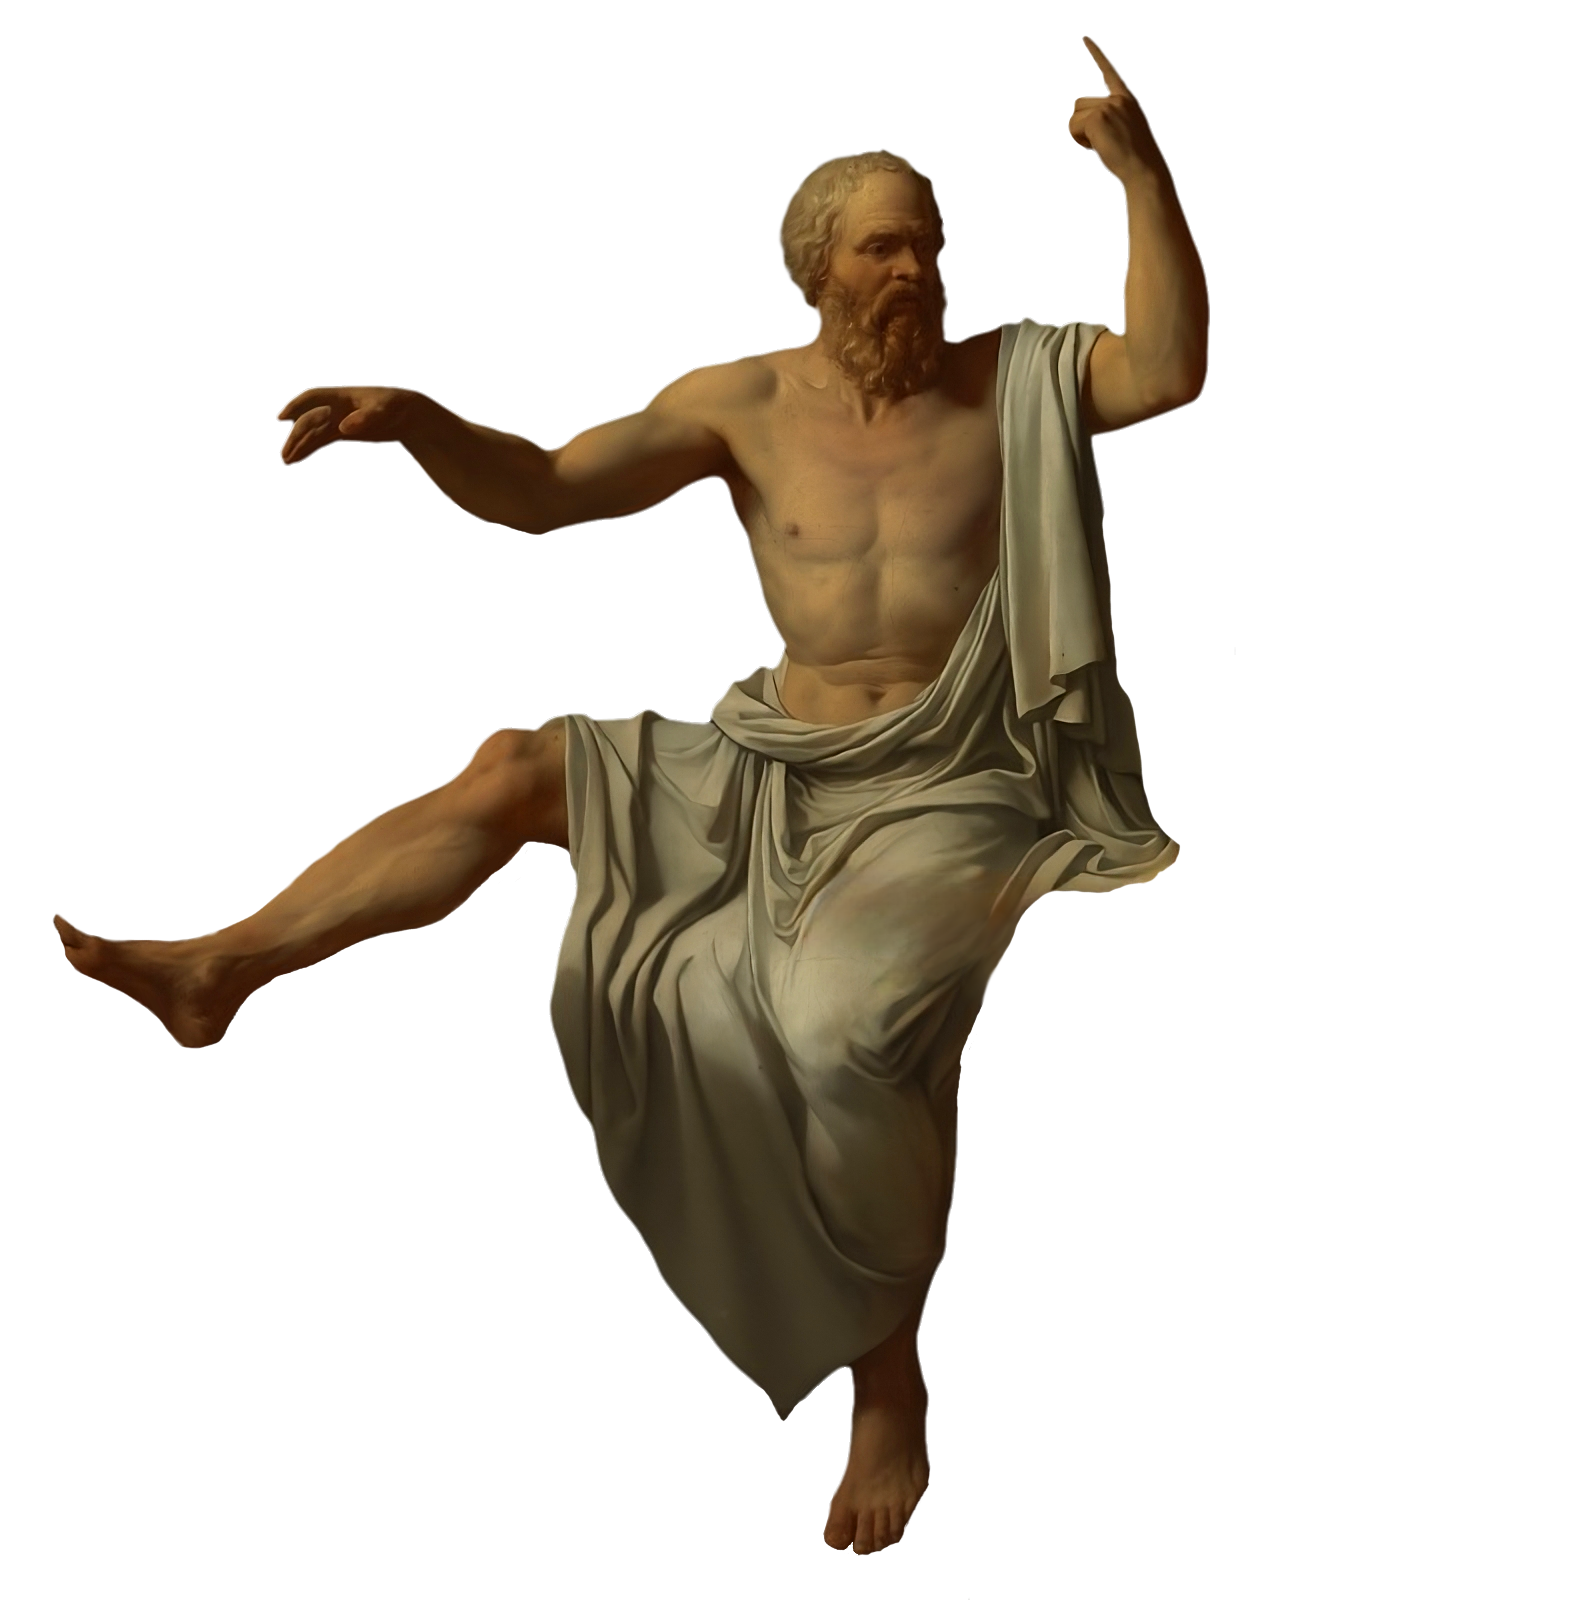
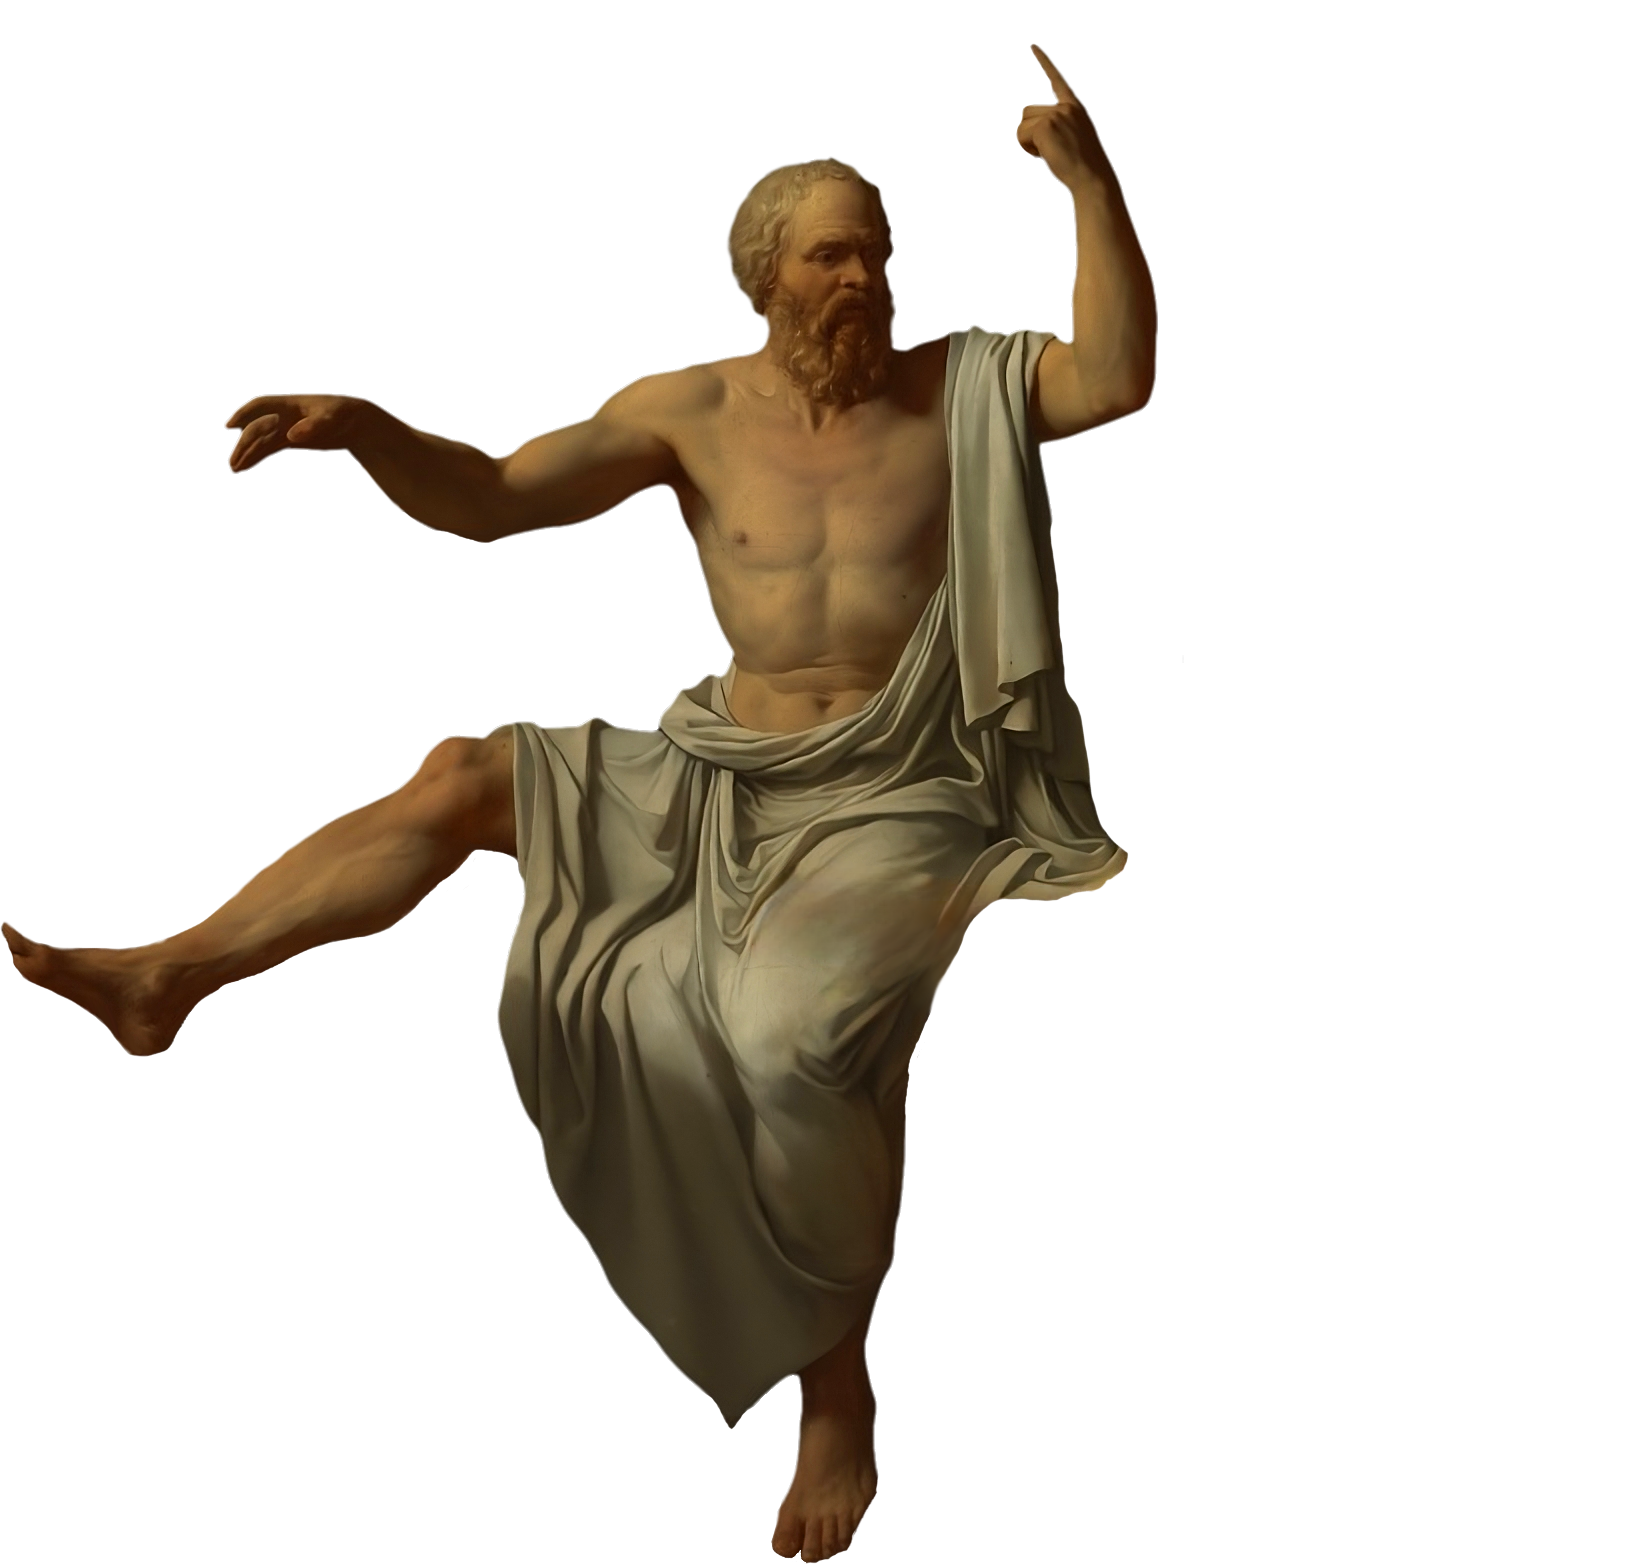
made socrates point to the button

Changed region(s): [[0.0, 0.0307, 0.7714, 1.0], [0.216, 0.5827, 0.2469, 0.6134]]

diff --git a/src/components/Hero.tsx b/src/components/Hero.tsx
@@ -1,3 +1,5 @@
+import { BsGithub } from 'react-icons/bs';
+
 import './Hero.css';
 
 const Hero = () => {
@@ -7,11 +9,16 @@ const Hero = () => {
 			{/* <div className='blue-gradient' /> */}
 			{/* <div className='pink-gradient' /> */}
 			<div className='float-left flex w-full flex-col place-items-center space-y-4 px-20 pt-20 text-center'>
-				<h1 className='w-2/3 font-serif text-6xl font-bold leading-[90px]'>Manage your classroom with ease and efficiency.</h1>
-				<h2 className='w-[850px] pb-12 text-2xl text-gray'>Manthano is an open-source platform designed to help students and teachers achieve max productivity in a completely intuitive way.</h2>
-				<button className='call-to-btn w-60 rounded-[16px] bg-gradient-to-bl from-teal to-lapis px-3 py-3 font-sans text-2xl font-bold'>START LEARNING</button>
+				<h1 className='w-2/3 text-6xl font-extrabold leading-[90px]'>Manage your classroom with ease and efficiency.</h1>
+				<h2 className='text-gray w-[850px] pb-12 text-2xl'>Manthano is an open-source platform designed to help students and teachers achieve max productivity in a completely intuitive way.</h2>
+				<div className='flex w-1/2 justify-center space-x-24'>
+					<a href='https://github.com/reszkojr/manthano-frontend' target='_blank' className='call-to-btn bg-gray flex w-60 items-center justify-center gap-3 rounded-[16px] bg-gray-800 px-3 py-4 font-sans text-2xl font-bold'>
+						Give us a star! <BsGithub />
+					</a>
+					<button className='call-to-btn w-60 rounded-[16px] bg-gradient-to-bl from-teal-500 to-lapis-500 px-3 py-4 font-sans text-2xl font-bold'>Create an account!</button>
+				</div>
 			</div>
-			<img src='landingpage/socrates4-half-pixelized.png' className='absolute left-1/2 top-[60vh] -z-10 w-[1000px] -translate-x-1/2' alt='the man' />
+			<img src='landingpage/socrates4.png' className='mx-auto mt-24 w-[1000px]' alt='the man' />
 		</div>
 	);
 };

diff --git a/src/components/LargeHeader.tsx b/src/components/LargeHeader.tsx
@@ -12,10 +12,10 @@ const Header = () => {
 	const redirect = () => navigate('/');
 	return (
 		<header id='header'>
-			<div className='flex items-center px-20 pt-10 text-xl text-gray'>
+			<div className='flex items-center justify-around px-60 pt-10 text-xl text-gray'>
 				<ReactSVG src='/m_manthano.svg' onClick={() => redirect()} className='w-12 cursor-pointer' />
-				<div className='flex-end ml-auto flex space-x-64'>
-					<div className='ml-6 flex space-x-12'>
+				<div className='flex space-x-64'>
+					<div className='flex space-x-12'>
 						<Link className='transition-colors hover:text-white' to='/'>
 							Home
 						</Link>
@@ -29,17 +29,17 @@ const Header = () => {
 							Contribute
 						</Link>
 					</div>
-					<div className='ml-auto'>
-						{user ? (
-							<Link to='/profile'>
-								<div className='flex space-x-2 transition-colors hover:text-white'>
-									<HiUserCircle className='mt-1 h-auto w-6' /> <span>{user.username}</span>
-								</div>
-							</Link>
-						) : (
-							<Link to='/login'>Login</Link>
-						)}
-					</div>
+				</div>
+				<div className=''>
+					{user ? (
+						<Link to='/profile'>
+							<div className='flex space-x-2 transition-colors hover:text-white'>
+								<HiUserCircle className='mt-1 h-auto w-6' /> <span>{user.username}</span>
+							</div>
+						</Link>
+					) : (
+						<Link to='/login'>Login</Link>
+					)}
 				</div>
 			</div>
 		</header>

diff --git a/src/components/Hero.css b/src/components/Hero.css
@@ -8,14 +8,14 @@
 	box-shadow: 0px 20px rgba(10, 10, 10, 0.3);
 }
 
-.aqua-gradient {
+.socrates-gradient {
 	top: 40vh;
 	right: 50%;
 	transform: translateX(50%);
 	position: absolute;
-	width: 1500px;
-	height: 1500px;
-	background: radial-gradient(circle at 50% 50%, rgb(0, 68, 255) 0%, rgba(238, 130, 238, 0) 90%, rgba(0, 0, 0, 0) 100%);
+	width: 800px;
+	height: 800px;
+	background: radial-gradient(circle at 50% 50%, rgba(98, 70, 36, 0.77) 0%, rgba(238, 130, 238, 0) 90%, rgba(0, 0, 0, 0) 100%);
 	filter: blur(500px);
 	overflow: hidden;
 	z-index: -10;
@@ -27,9 +27,9 @@
 	position: absolute;
 	width: 800px;
 	height: 800px;
-	background: radial-gradient(circle at 50% 50%, rgba(0, 191, 255, 0.4) 0%, rgba(238, 130, 238, 0) 90%, rgba(0, 0, 0, 0) 100%);
+	background: radial-gradient(circle at 50% 50%, rgba(98, 70, 36, 0.77) 0%, rgba(238, 130, 238, 0) 90%, rgba(0, 0, 0, 0) 100%);
 	filter: blur(500px);
-	z-index: -10;
+	z-index: -20;
 	overflow: hidden;
 }
 
@@ -39,7 +39,7 @@
 	position: absolute;
 	width: 800px;
 	height: 800px;
-	background: radial-gradient(circle at 50% 50%, rgba(255, 0, 157, 0.4) 0%, rgba(238, 130, 238, 0) 100%, rgba(0, 0, 0, 0) 100%);
+	background: radial-gradient(circle at 50% 50%, rgba(98, 70, 36, 0.77) 0%, rgba(238, 130, 238, 0) 90%, rgba(0, 0, 0, 0) 100%);
 	filter: blur(500px);
 	z-index: -10;
 	overflow: hidden;
